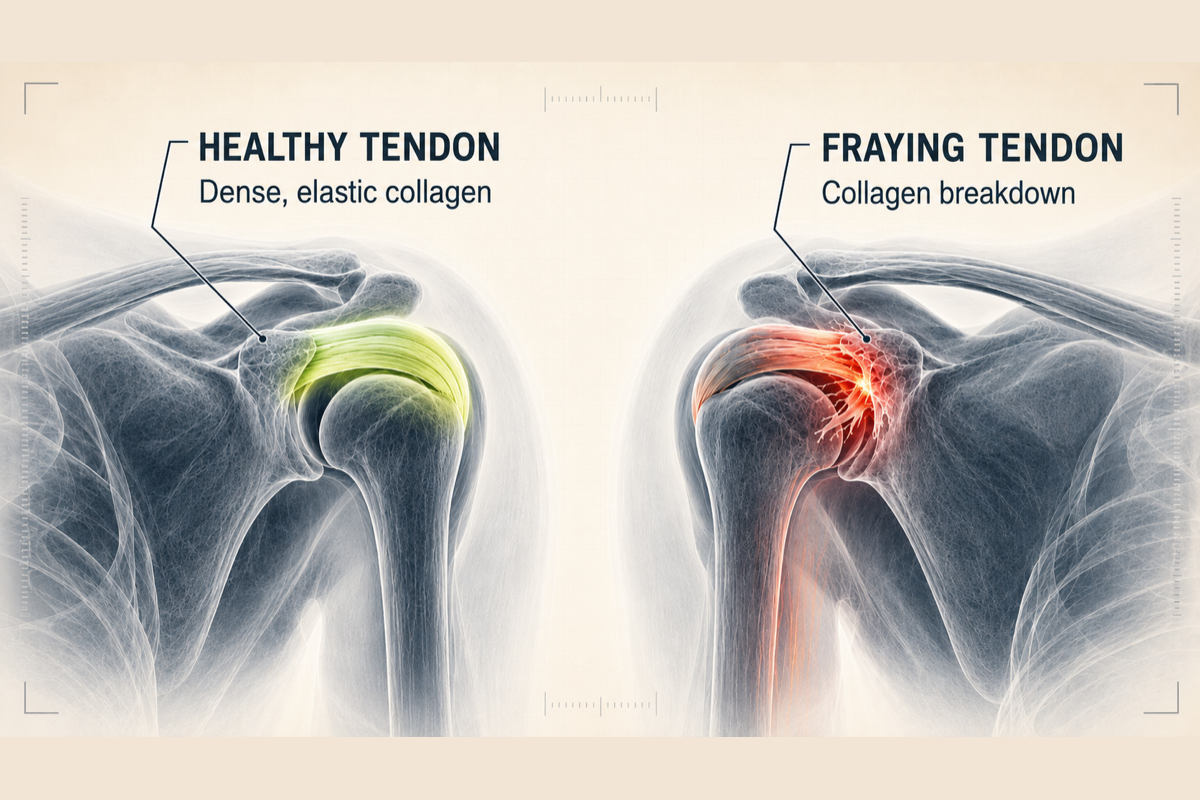
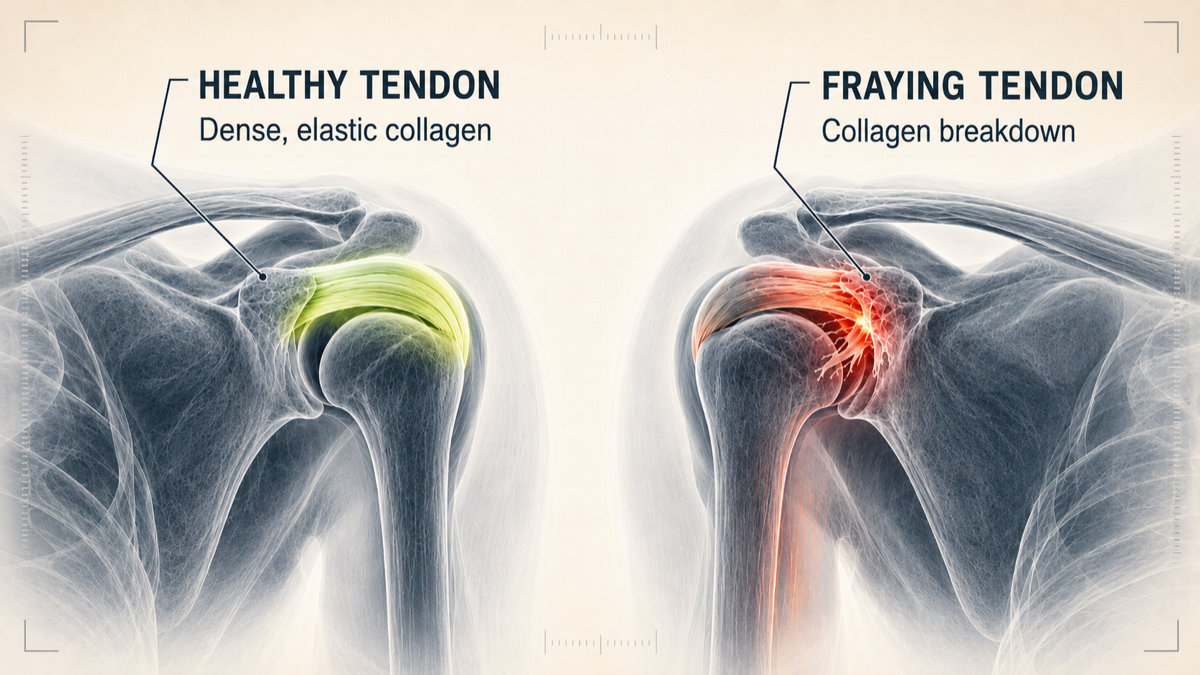
S3 shortened to 120 words + tendon image restored to 16:9 with figure aspect override (no more padding bands) — Gate 6 clean except intended +1 style attr

diff --git a/index.html b/index.html
@@ -14848,9 +14848,9 @@ html body #nv-dr-intro .nv-dr-collagen-band .nv-dr-inline-figure, html body #nv-
             since.
           </p></div><div class="nv-dr-body" id="cc-id-AmnnSJP0mRJk"><div class="nv-dr-intro-copy-block" id="cc-id-TrUfjXdn1l7B"><div class="nv-dr-copy" id="cc-id-oTnw80kfMrIX" spellcheck="false"><p>Dear friend with an aching shoulder - if you're a woman past 50 and you're reading this because you're frustrated.</p><p>If reaching the top shelf, or fastening your bra, has turned into a fight with your own arm. If you hate that deep, grinding ache - and the confidence it stole from you.</p><p>If you feel "modern medicine" keeps telling you to just "wait and see." If you hope surgery isn't your only option.</p><p>If you're skeptical of cortisone shots that wear off like clockwork, pills that wear on your stomach, or creams that quit before the ache does.</p><p>That's for you - yes, you're in the right place. And in a moment, you'll see exactly why your shoulder never got the chance to heal.</p></div></div><div class="nv-dr-footer-band nv-dr-collagen-band" id="cc-id-jZnOq8dXOKjL"><div class="nv-dr-footer-band-inner" id="cc-id-oJRcnmqNkS62"><h3 class="nv-dr-emphasis" id="cc-id-uLxbVdTJbJlt" spellcheck="false">
                 What the Hell Happened to My Shoulder? It Came On So Fast
-              </h3><div class="nv-dr-text-img nv-dr-text-img--reverse" id="cc-id-MOjG79z8QDbd"><div class="nv-dr-copy" id="cc-id-oJLkDfDEPJca"><p>Did your shoulder feel fine for years - then almost overnight, it all started?</p><p>The zinger that wakes you at night. The catch when you reach.</p><p>It's not your fault, and it's not "just aging."</p><p>With age, your body rebuilds collagen slower than it wears down - and your rotator cuff frays like a rope, one thread at a time.</p><p><b>Doctors have a name for it: rotator cuff tendinopathy. Most write it off as "wear and tear."</b></p><p>And tendons have almost no blood supply - so the fraying never stops, the inflammation never fades, and your shoulder never got the chance to heal.</p><p>It's not three problems. It's one - and it started when your tendons began to fray. Nothing you swallow or rub from an ordinary shelf was ever going to reach it.</p></div><figure class="nv-dr-inline-figure" aria-label="Collagen starvation skin comparison" id="cc-id-jgCbfFdDg7Lw"><figure class="nv-dr-video-figure" aria-label="How the roller reaches the starving layer" id="cc-id-f5wbsM0H0sJK"><img class="nv-dr-video fk-disable-lazy" src="mini-adv-assets/3.png" id="cc-id-h05C5xpjhjaX" style="width: auto; height: 343px;"></figure></figure></div></div></div><div class="nv-dr-added-band nv-dr-surface-band" id="cc-id-qDdnLOLDG1N0"><h3 class="nv-dr-emphasis" id="cc-id-zoeuRUHyW2lN" spellcheck="false">
+              </h3><div class="nv-dr-text-img nv-dr-text-img--reverse" id="cc-id-MOjG79z8QDbd"><div class="nv-dr-copy" id="cc-id-oJLkDfDEPJca"><p>Did your shoulder feel fine for years - then almost overnight, it all started?</p><p>The zinger that wakes you at night. The catch when you reach.</p><p>It's not your fault, and it's not "just aging."</p><p>With age, your body rebuilds collagen slower than it wears down - and your rotator cuff frays like a rope, one thread at a time.</p><p><b>Doctors have a name for it: rotator cuff tendinopathy. Most write it off as "wear and tear."</b></p><p>And tendons have almost no blood supply - so the fraying never stops, the inflammation never fades, and your shoulder never got the chance to heal.</p><p>It's not three problems. It's one - and it started when your tendons began to fray. Nothing you swallow or rub from an ordinary shelf was ever going to reach it.</p></div><figure class="nv-dr-inline-figure" aria-label="Collagen starvation skin comparison" id="cc-id-jgCbfFdDg7Lw"><figure class="nv-dr-video-figure" aria-label="How the roller reaches the starving layer" id="cc-id-f5wbsM0H0sJK" style="aspect-ratio: 16 / 9 !important;"><img class="nv-dr-video fk-disable-lazy" src="mini-adv-assets/3.png" id="cc-id-h05C5xpjhjaX" style="width: auto; height: 343px;"></figure></figure></div></div></div><div class="nv-dr-added-band nv-dr-surface-band" id="cc-id-qDdnLOLDG1N0"><h3 class="nv-dr-emphasis" id="cc-id-zoeuRUHyW2lN" spellcheck="false">
               Cortisone Shots, "Just Rest It", Even Surgery - Why None of Them Ever Worked for Your Shoulder
-            </h3><div class="nv-dr-text-img nv-dr-text-img--reverse" id="cc-id-r4UL7nXbFBpK"><figure class="nv-dr-video-figure" aria-label="How the roller reaches the starving layer" id="cc-id-Mr5Y9Lj4tBLM"><img class="fk-disable-lazy nv-dr-inline-img" src="mini-adv-assets/7.png" alt="Surface creams and oils cannot reach collagen starvation layer" id="cc-id-cp7sTisKf0Tn" style="width: 100%; height: auto; border-radius: 10px;"></figure><div class="nv-dr-copy" id="cc-id-pjpHYFf8Bsio" spellcheck="false"><p>A cortisone shot can feel like a miracle - the ache goes quiet almost overnight. But the relief wears off, sometimes every 90 days like clockwork - and doctors themselves limit how many you can get, because too many shots wear down the very tissue they're supposed to protect.</p><p>The pain goes quiet. The fraying never does.</p><p>So the advice turns to "just rest it" - stop reaching, wear the sling, give it time. But a tendon that barely gets any blood doesn't rebuild itself just because you stopped using it. If a rope is fraying in a drawer, does leaving it alone make the fibers grow back?</p><p>No - it just sits there, weaker, waiting to snap.</p><p>And if the tendon tears all the way through, surgery can stitch it back together - for a full tear, that repair matters. But stitching tissue that has been fraying for years is like sewing new seams into rotten wood: the stitches have nothing solid to hold onto. Recovery can mean months in a sling - sometimes more than a year - and for some, the same tendon tears again. Because the surgery fixed the tear, not the fragile tissue underneath.</p><p>None of them ever reach down where your fraying tendon actually needs help - not the shot, not the rest, not even the stitches. <b>And none of them touch the real cause - the inflammation that started when your tendons began to fray.</b></p></div></div></div><div class="nv-dr-added-band nv-dr-product-band" id="cc-id-9r6CM5O5BJV6"><h3 class="nv-dr-emphasis" id="cc-id-3TDB3Cqtk3KC" spellcheck="false">
+            </h3><div class="nv-dr-text-img nv-dr-text-img--reverse" id="cc-id-r4UL7nXbFBpK"><figure class="nv-dr-video-figure" aria-label="How the roller reaches the starving layer" id="cc-id-Mr5Y9Lj4tBLM"><img class="fk-disable-lazy nv-dr-inline-img" src="mini-adv-assets/7.png" alt="Surface creams and oils cannot reach collagen starvation layer" id="cc-id-cp7sTisKf0Tn" style="width: 100%; height: auto; border-radius: 10px;"></figure><div class="nv-dr-copy" id="cc-id-pjpHYFf8Bsio" spellcheck="false"><p>A cortisone shot feels like a miracle - until it wears off, every 90 days like clockwork. And doctors cap the shots, because too many wear down the tissue.</p><p>The pain goes quiet. The fraying never does.</p><p>Then comes "just rest it." But does a fraying rope in a drawer grow its fibers back?</p><p>No - it just sits there, weaker, waiting to snap.</p><p>And surgery? For a full tear, it matters. But stitching tissue that's been fraying is like sewing into rotten wood - nothing solid to hold onto. Months in a sling, and some tear again.</p><p>None of it reaches the fraying tendon. <b>And none of it touches the real cause - the inflammation that started when your tendons began to fray.</b></p></div></div></div><div class="nv-dr-added-band nv-dr-product-band" id="cc-id-9r6CM5O5BJV6"><h3 class="nv-dr-emphasis" id="cc-id-3TDB3Cqtk3KC" spellcheck="false">
               So We Built One Simple Balm To Calm The Inflammation Behind Your Fraying Tendon
             </h3><div class="nv-dr-text-img nv-dr-product-roll-block" id="cc-id-wpdRQIe3d4XY"><figure class="nv-dr-inline-figure nv-dr-productt-visual" aria-label="Natural Cooling Roller product" id="cc-id-WuFYz9HaJcrW"><img class="fk-disable-lazy nv-dr-inline-img" src="mini-adv-assets/productt.png" alt="Natural Cooling Roller product" id="cc-id-AdmjgeTWHBsU" title="" href="" target="_self" align="center" width="" height=""></figure><div class="nv-dr-copy" id="cc-id-2iJlQ2g12sBE" spellcheck="false"><p id="cc-id-8xyFd10HyRUk" class="rte-styled-text" data-layer-name="Text">
                   A pure plant formula inspired by European practice to work right where it hurts. It works in 3 steps.&nbsp;
